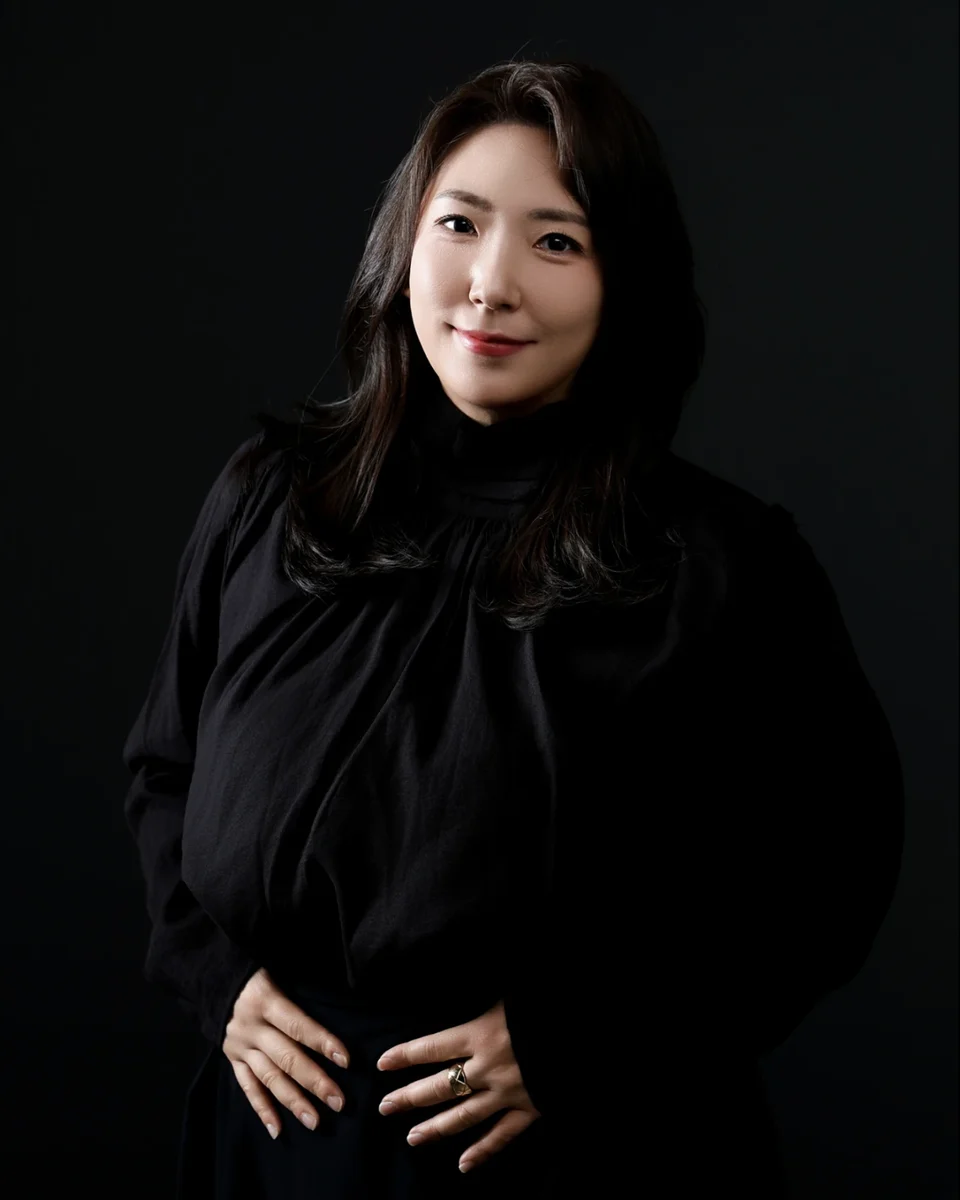
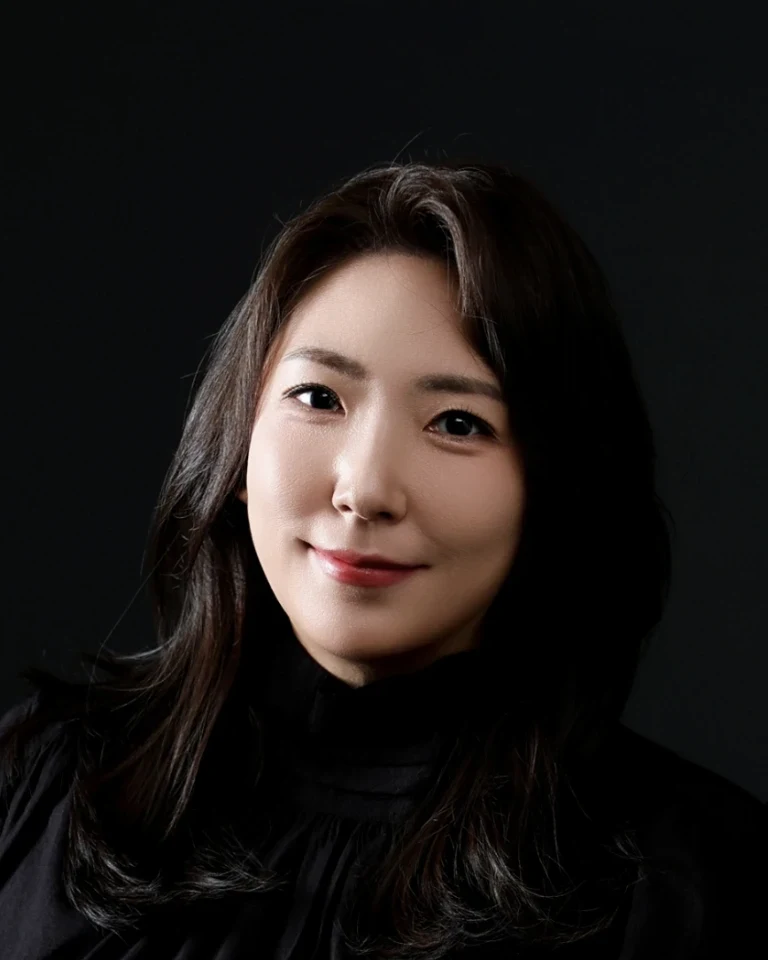
Crop director portrait above the hands
Claude-Session: https://claude.ai/code/session_01PSsKoz3BQtZ5EVmQWyS1ya

diff --git a/assets/css/style.css b/assets/css/style.css
@@ -556,7 +556,7 @@ i { font-style: normal; }
 .panel__en { font-family: var(--serif-en); font-style: italic; font-size: 1.3rem; color: var(--bronze); letter-spacing: .06em; margin-bottom: 4px; }
 
 /* ---------- Director photo ---------- */
-.director__photo img { width: 100%; max-width: 100%; aspect-ratio: 4 / 5; object-fit: cover; object-position: 50% 20%; }
+.director__photo img { width: 100%; max-width: 100%; aspect-ratio: 4 / 5; object-fit: cover; object-position: 50% 30%; }
 
 @media (max-width: 600px) {
   .tab { padding: 12px 14px; font-size: .82rem; }

diff --git a/index.html b/index.html
@@ -108,7 +108,7 @@
     <section class="section section--dark director" id="director">
       <div class="container director__inner">
         <div class="director__photo reveal">
-          <img src="assets/img/director.webp" alt="e.je PMU 이제 원장" width="960" height="1200" loading="lazy">
+          <img src="assets/img/director.webp" alt="e.je PMU 이제 원장" width="768" height="960" loading="lazy">
         </div>
         <div class="director__text">
           <p class="eyebrow reveal">DIRECTOR</p>
